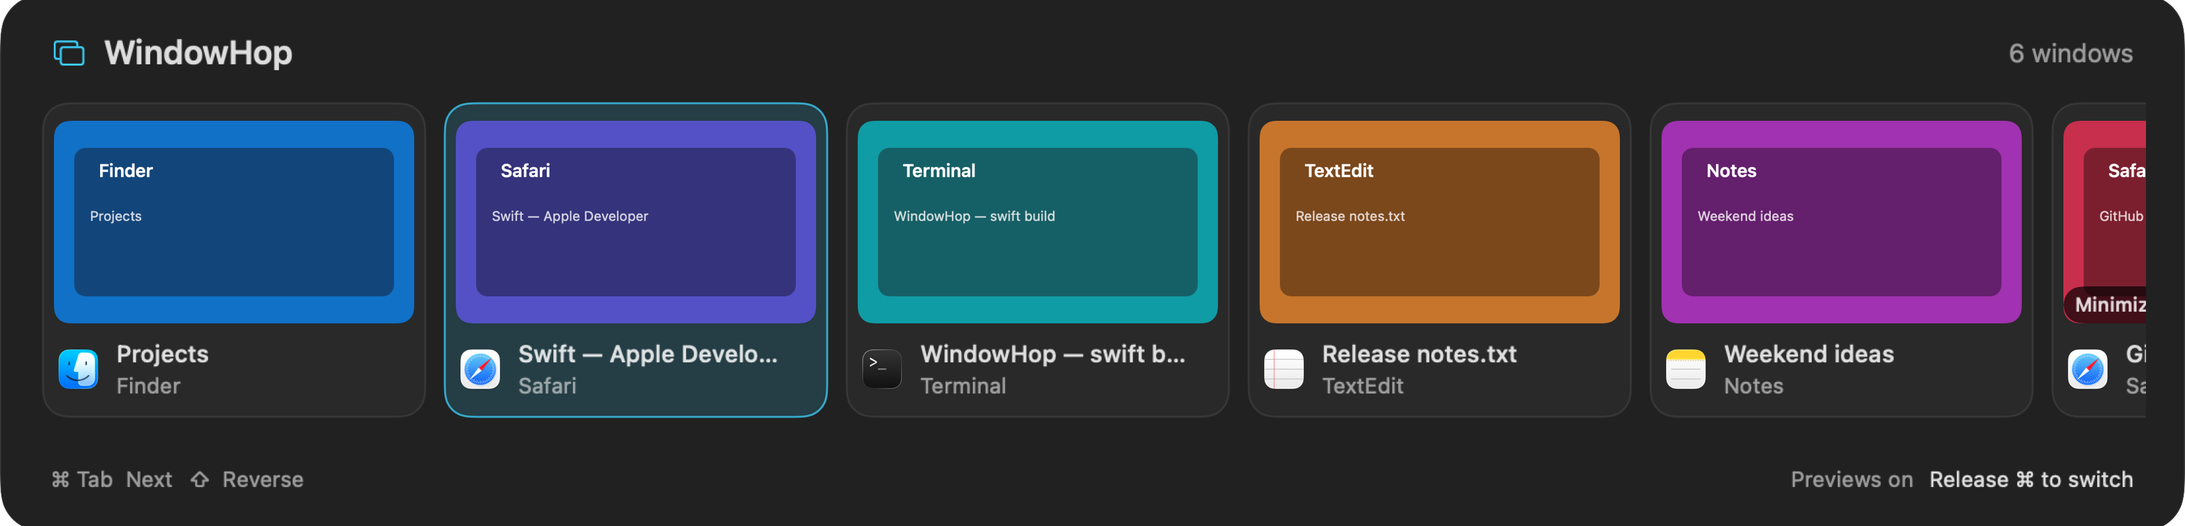
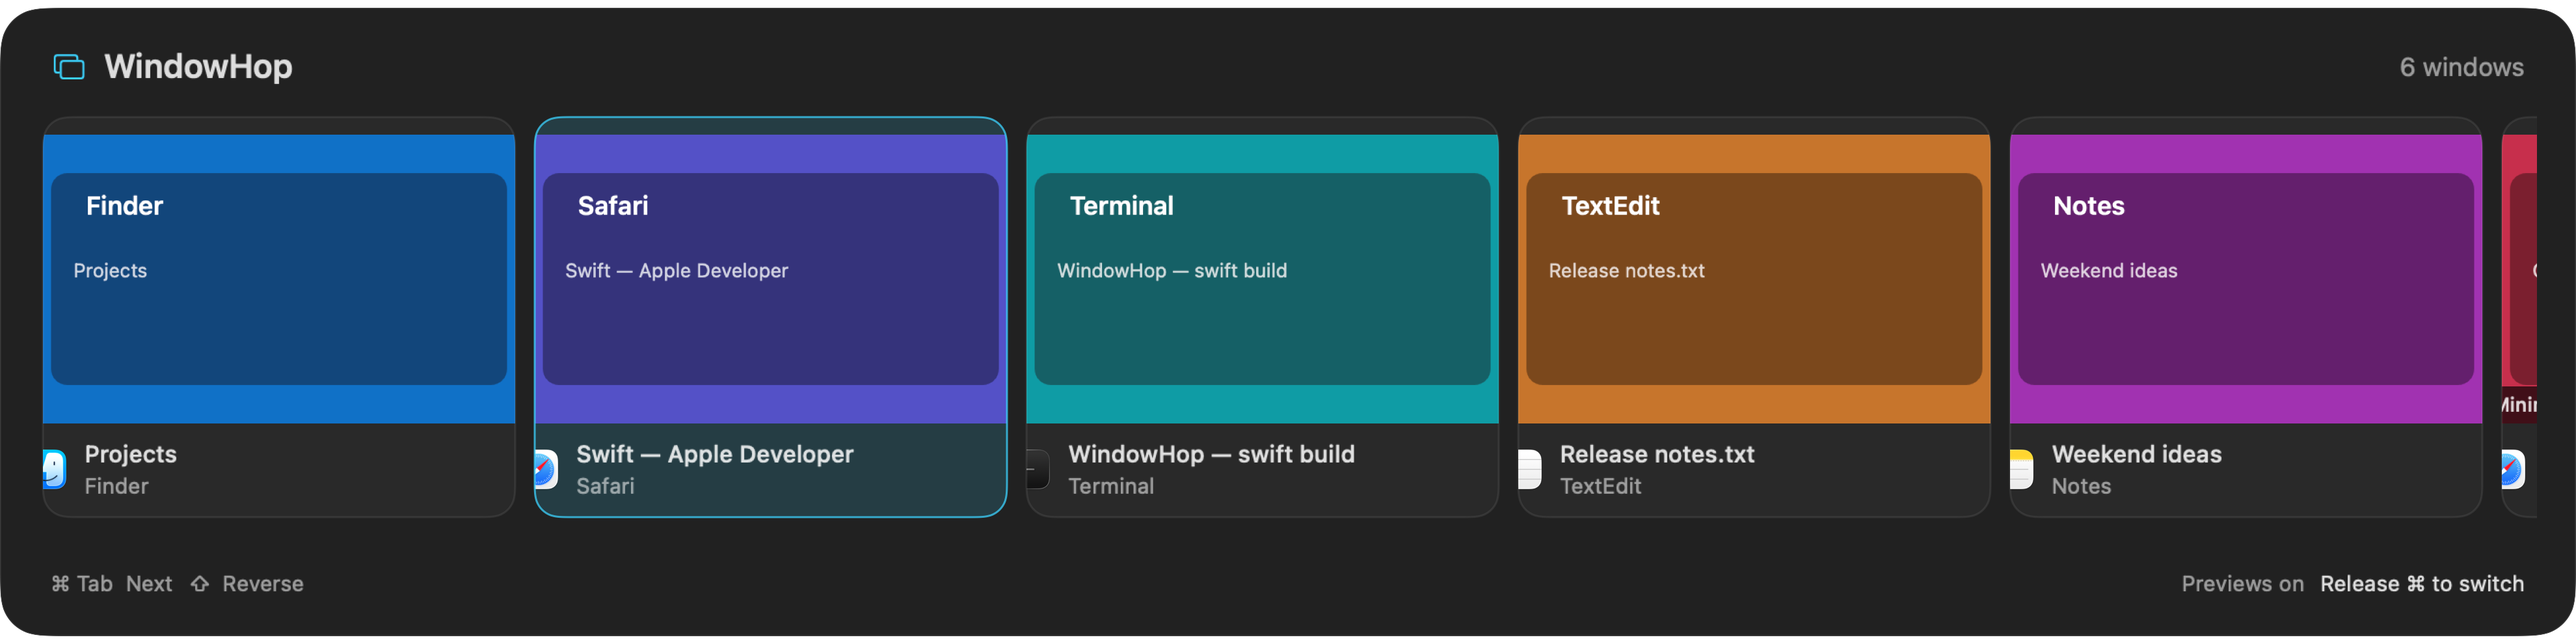
Enlarge the window switcher

diff --git a/Sources/WindowHop/SwitcherUI.swift b/Sources/WindowHop/SwitcherUI.swift
@@ -40,7 +40,7 @@ struct SwitcherView: View {
                             Button { model.choose?(window.id) } label: {
                                 WindowCard(window: window, preview: model.previews[window.id],
                                            selected: model.selected == window.id, showPreview: model.showPreviews)
-                                    .frame(width: model.showPreviews ? 178 : 154)
+                                    .frame(width: model.showPreviews ? 224 : 184)
                                     .padding(9)
                                     .background(model.selected == window.id ? Color.cyan.opacity(0.16) : Color.white.opacity(0.035))
                                     .clipShape(RoundedRectangle(cornerRadius: 13))
@@ -53,7 +53,7 @@ struct SwitcherView: View {
                         }
                     }.padding(2)
                 }
-                .frame(height: model.showPreviews ? 174 : 92)
+                .frame(height: model.showPreviews ? 220 : 106)
                 .onChange(of: model.selected) { id in if let id { proxy.scrollTo(id, anchor: .center) } }
                 .onAppear { if let id = model.selected { proxy.scrollTo(id, anchor: .center) } }
             }
@@ -103,7 +103,7 @@ private struct WindowCard: View {
                             .clipShape(Capsule())
                     }
                 }
-                .frame(height: 104)
+                .frame(height: 148)
                 .background(Color.white.opacity(0.06))
                 .clipShape(RoundedRectangle(cornerRadius: 8))
                 .clipped()
@@ -113,7 +113,7 @@ private struct WindowCard: View {
                     Image(systemName: window.minimized || window.hidden ? "eye.slash" : "rectangle")
                         .font(.system(size: 12)).foregroundStyle(.secondary)
                 }
-                .frame(height: 38)
+                .frame(height: 48)
             }
 
             HStack(spacing: 7) {
@@ -156,10 +156,11 @@ final class SwitcherPanel: NSPanel {
         let area = screen?.visibleFrame ?? NSRect(x: 0, y: 0, width: 1000, height: 800)
         // Keep the picker wide enough to feel like an app switcher while leaving
         // a safe margin on small displays. The horizontal scroller handles large catalogs.
-        let maximumWidth = min(1600, max(320, area.width - 64))
-        let minimumWidth: CGFloat = showPreviews ? 820 : 700
-        let preferredWidth = max(minimumWidth, maximumWidth * 0.80)
-        let size = NSSize(width: min(preferredWidth, maximumWidth), height: min(showPreviews ? 270 : 184, area.height - 80))
+        let maximumWidth = min(1800, max(320, area.width - 48))
+        let minimumWidth: CGFloat = showPreviews ? 980 : 780
+        let preferredWidth = max(minimumWidth, maximumWidth * 0.88)
+        let size = NSSize(width: min(preferredWidth, maximumWidth),
+                          height: min(showPreviews ? 330 : 216, area.height - 64))
         setFrame(NSRect(x: area.midX - size.width / 2, y: area.midY - size.height / 2, width: size.width, height: size.height), display: true)
         orderFrontRegardless()
     }

diff --git a/scripts/preview/main.swift b/scripts/preview/main.swift
@@ -37,7 +37,7 @@ final class PreviewDelegate: NSObject, NSApplicationDelegate {
             DispatchQueue.main.asyncAfter(deadline: .now() + 0.5) {
                 do {
                     try FileManager.default.createDirectory(at: folder, withIntermediateDirectories: true)
-                    try self.export(SwitcherView(model: self.model).frame(width: 1120, height: 270),
+                    try self.export(SwitcherView(model: self.model).frame(width: 1320, height: 330),
                                     to: folder.appendingPathComponent("switcher.png"))
                     let settings = SetupModel()
                     settings.shortcut = .command

diff --git a/Sources/WindowHop/WindowCatalog.swift b/Sources/WindowHop/WindowCatalog.swift
@@ -239,8 +239,8 @@ final class WindowCatalog {
                 $0.owningApplication?.processID ?? 0
             }
             let configuration = SCStreamConfiguration()
-            configuration.width = 356
-            configuration.height = 208
+            configuration.width = 448
+            configuration.height = 296
             configuration.scalesToFit = true
             configuration.preservesAspectRatio = true
             configuration.showsCursor = false
